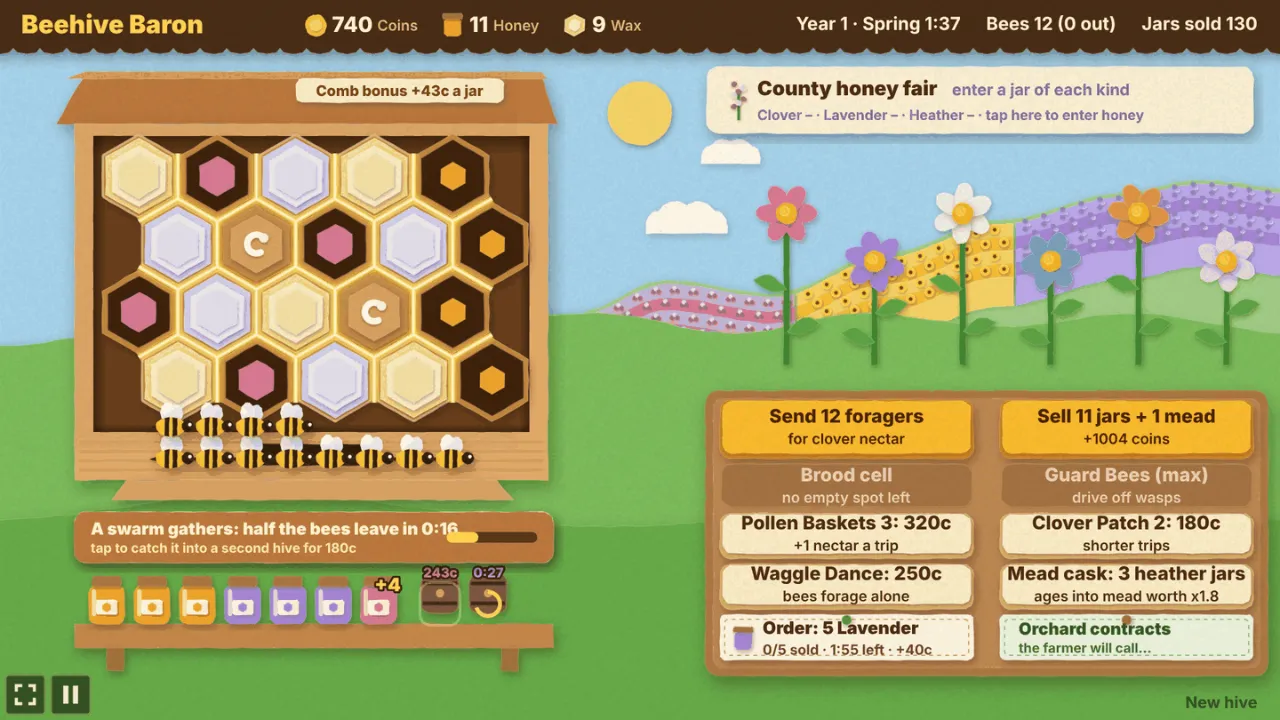
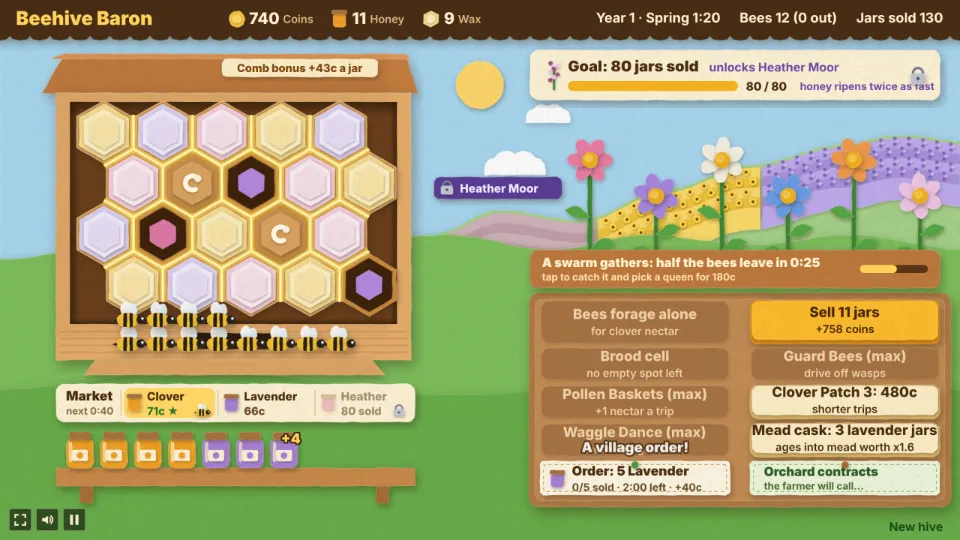
Beehive Baron: fix code review findings (#541)
- Recapture docs/screenshots/swarm.webp so it shows the swarm chip above the button board, with the market board under the hive in view
- Reword the swarm screenshot's alt text in the README to match where the chip now sits
- Fix the swarm-chip texture comment in src/art/scenery.ts, which still placed the chip under the hive

Created with Claude Opus 5.5 (medium)

diff --git a/games/beehive-baron/src/art/scenery.ts b/games/beehive-baron/src/art/scenery.ts
@@ -387,7 +387,7 @@ function bakeCards(scene: Phaser.Scene) {
   // The tabs on the hive roof that switch combs: cream when shown, flat brown otherwise.
   card('hive-tab-on', HIVE_TAB.w, HIVE_TAB.h, (ctx) => cut(ctx, rr(0, 0, HIVE_TAB.w, HIVE_TAB.h, 5), CARD.plaque, { depth: 2 }));
   card('hive-tab-off', HIVE_TAB.w, HIVE_TAB.h, (ctx) => cut(ctx, rr(0, 0, HIVE_TAB.w, HIVE_TAB.h, 5), CARD.roofTrim, { depth: 0.5, shadow: 0.2 }));
-  // The swarm chip under the hive, a warm card to tap while the swarm gathers.
+  // The swarm chip over the meadow, just above the button board, a warm card to tap while the swarm gathers.
   card('swarm-chip', SWARM.w, SWARM.h, (ctx) => cut(ctx, rr(0, 0, SWARM.w, SWARM.h, 8), CARD.roof, { depth: 4 }));
   // The end card, a big cream card with a gold rosette, when the fair makes the player the Baron.
   const bigCard = (ctx: CanvasRenderingContext2D) => {

diff --git a/games/beehive-baron/README.md b/games/beehive-baron/README.md
@@ -191,7 +191,7 @@ hatch. Each queen has her own gift, and the plaque on her comb names her:
 | Hardy | Her bees eat half as much in winter (a jar for every 8 of them, not 4) |
 | Busy | Her bees bring 1 more drop of nectar a trip |
 
-![A swarm gathering under a full hive](docs/screenshots/swarm.webp)
+![A swarm gathering over a full hive's meadow, its chip above the buttons](docs/screenshots/swarm.webp)
 
 ![Catching the swarm: pick its queen](docs/screenshots/queen-pick.webp)
 
